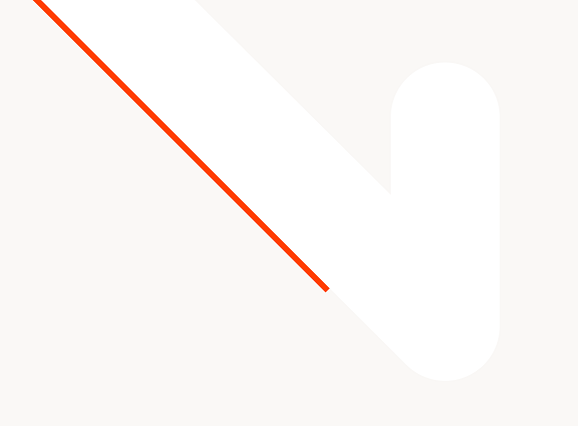
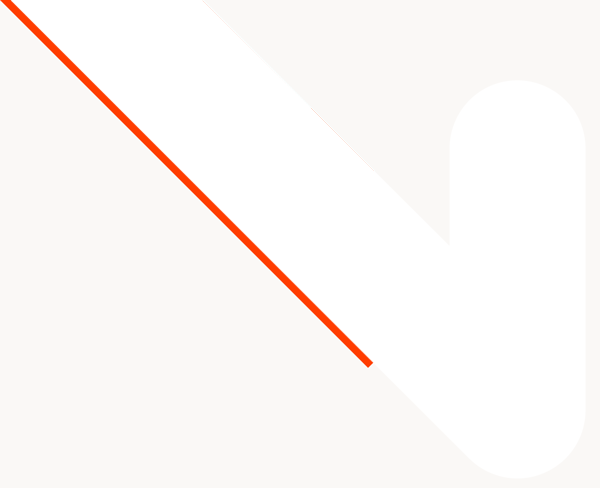
update

Changed region(s): [[0.0, 0.0, 0.6228, 0.7629]]

diff --git a/source/stylesheets/site.css b/source/stylesheets/site.css
@@ -1,11 +1,12 @@
 @import url("https://fonts.googleapis.com/css?family=Arsenal:700&subset=cyrillic-ext");
 body {
-  background-color: #faf8f6; }
+  background-color: #faf8f6;
+  border: 30px solid white; }
 
 /* Header */
 .logo {
   float: left;
-  width: 30%; }
+  width: 25%; }
 
 img {
   float: left; }
@@ -23,13 +24,13 @@ img {
 .navigation {
   position: fixed;
   width: 100%;
-  top: 10px;
-  right: 5px;
-  left: 15px;
+  top: 60px;
+  right: 40px;
+  left: 60px;
   z-index: 5; }
 
 .navbar-desktop {
-  width: 68%;
+  width: 67%;
   float: left;
   text-align: right; }
   .navbar-desktop a {
@@ -44,7 +45,7 @@ img {
   .navbar-desktop a.presentation {
     background-color: #ff3d00;
     color: white;
-    padding: 5px 15px; }
+    padding: 7px 17px; }
   .navbar-desktop a.presentation:hover {
     background-color: transparent;
     color: #ff3d00;
@@ -83,10 +84,10 @@ img {
 
 /*Background image */
 .bckg-image {
-  background: url("../images/back.gif");
+  background: url("../images/b.png");
   background-repeat: no-repeat;
   background-size: cover;
-  top: 0;
+  top: 30px;
   right: 170px;
   position: absolute;
   z-index: 0; }
@@ -101,8 +102,15 @@ img {
   padding-top: 100px;
   padding-left: 67px;
   height: 100vh; }
+  #decision .decisionText {
+    height: calc(100vh - 200px);
+    display: flex;
+    flex-wrap: wrap;
+    align-content: center;
+    width: 100%; }
   #decision .content {
-    margin-bottom: 34px; }
+    margin-bottom: 34px;
+    width: 100%; }
   #decision span {
     display: inline;
     text-decoration: none;
@@ -145,8 +153,7 @@ img {
   display: flex;
   flex-direction: column;
   align-items: center;
-  justify-content: center;
-  height: calc(100vh - 550px); }
+  justify-content: center; }
   .btn .fwd {
     width: 40px;
     height: 40px;
@@ -225,6 +232,9 @@ img {
 
 /* Media Querries */
 @media screen and (max-width: 767px) {
+  body {
+    border: none; }
+
   .logo {
     width: 50%; }
 
@@ -239,6 +249,9 @@ img {
   #decision .text {
     font-size: 20px; } }
 @media screen and (min-width: 768px) and (max-width: 991px) {
+  body {
+    border: none; }
+
   .logo {
     width: 50%; }
 
@@ -252,17 +265,35 @@ img {
     font-size: 85px; }
   #decision .text {
     font-size: 22px; } }
-@media (min-width: 991px) and (max-width: 1199px) {
+@media (min-width: 991px) and (max-width: 1399px) {
+  body {
+    border: 20px solid white; }
+
+  .bckg-image {
+    top: 20px; }
+
+  .navigation {
+    top: 40px; }
+
   .mobnav {
     display: none; }
 
   #navbar-mobile {
     display: none; } }
-@media (min-width: 1200px) {
+@media (min-width: 1400px) {
   .mobnav {
     display: none; }
 
   #navbar-mobile {
-    display: none; } }
+    display: none; }
+
+  #decision .decisionText {
+    height: calc(100vh - 40px); }
+
+  .navbar-desktop {
+    width: 70%; }
+
+  .bckg-image {
+    right: 220px; } }
 
 /*# sourceMappingURL=site.css.map */

diff --git a/source/stylesheets/site.css.scss b/source/stylesheets/site.css.scss
@@ -6,13 +6,14 @@ $letter: 1px;
 
 body {
   background-color: rgb(250,248,246);
+  border: 30px solid white;
 }
 
 /* Header */
 
 .logo {
   float: left;
-  width: 30%;
+  width: 25%;
 }
 
 img {
@@ -35,14 +36,14 @@ img {
 .navigation {
   position: fixed;
   width: 100%;
-  top: 10px;
-  right: 5px;
-  left: 15px;
+  top: 60px;
+  right: 40px;
+  left: 60px;
   z-index: 5;
 }
 
 .navbar-desktop {
-  width: 68%;
+  width: 67%;
   float: left;
   text-align: right;
 
@@ -62,7 +63,7 @@ img {
    a.presentation {
     background-color: $color-detail;
     color: rgb(255,255,255);
-    padding: 5px 15px;
+    padding: 7px 17px;
    }
 
    a.presentation:hover {
@@ -113,10 +114,10 @@ img {
 /*Background image */
 
 .bckg-image {
-  background: url('../images/back.gif');
+  background: url('../images/b.png');
   background-repeat: no-repeat;
   background-size: cover;
-  top: 0;
+  top: 30px;
   right: 170px;
   position: absolute;
   z-index: 0;
@@ -134,9 +135,18 @@ img {
   padding-top: 100px;
   padding-left: 67px;
   height: 100vh;
+
+  .decisionText {
+    height: calc(100vh - 200px);
+    display: flex;
+    flex-wrap: wrap;
+    align-content: center;
+    width: 100%;
+  }
   
   .content {
     margin-bottom: 34px;
+    width: 100%;
   }
 
   span {
@@ -194,7 +204,6 @@ img {
   flex-direction: column;
   align-items: center;  
   justify-content: center;
-  height: calc(100vh - 550px); 
 
   .fwd {
     width: 40px;
@@ -288,6 +297,9 @@ img {
 /* Media Querries */
 
 @media screen and (max-width: 767px) {
+  body {
+    border: none;
+  }
   .logo {
     width: 50%;
   }
@@ -308,6 +320,9 @@ img {
 }
 
 @media screen and (min-width: 768px) and (max-width: 991px) {
+  body {
+    border: none;
+  }
   .logo {
     width: 50%;
   }
@@ -327,7 +342,16 @@ img {
 }
 }
 
-@media (min-width: 991px) and (max-width: 1199px) {
+@media (min-width: 991px) and (max-width: 1399px) {
+  body {
+    border: 20px solid white;
+  }
+  .bckg-image {
+    top: 20px;
+  }
+  .navigation {
+    top: 40px;
+  }
   .mobnav {
     display: none;
   }
@@ -337,11 +361,22 @@ img {
 
 }
 
-@media (min-width: 1200px) {
+@media (min-width: 1400px) {
   .mobnav {
     display: none;
   }
   #navbar-mobile {
     display: none;
+  }
+  #decision {
+    .decisionText {
+      height: calc(100vh - 40px);
+  }
+}
+  .navbar-desktop {
+    width: 70%;
+}
+  .bckg-image {
+    right: 220px;
   }
 }

diff --git a/source/javascripts/site.js b/source/javascripts/site.js
@@ -23,3 +23,4 @@ $(window).scroll(function () {
 });
 });
 
+
